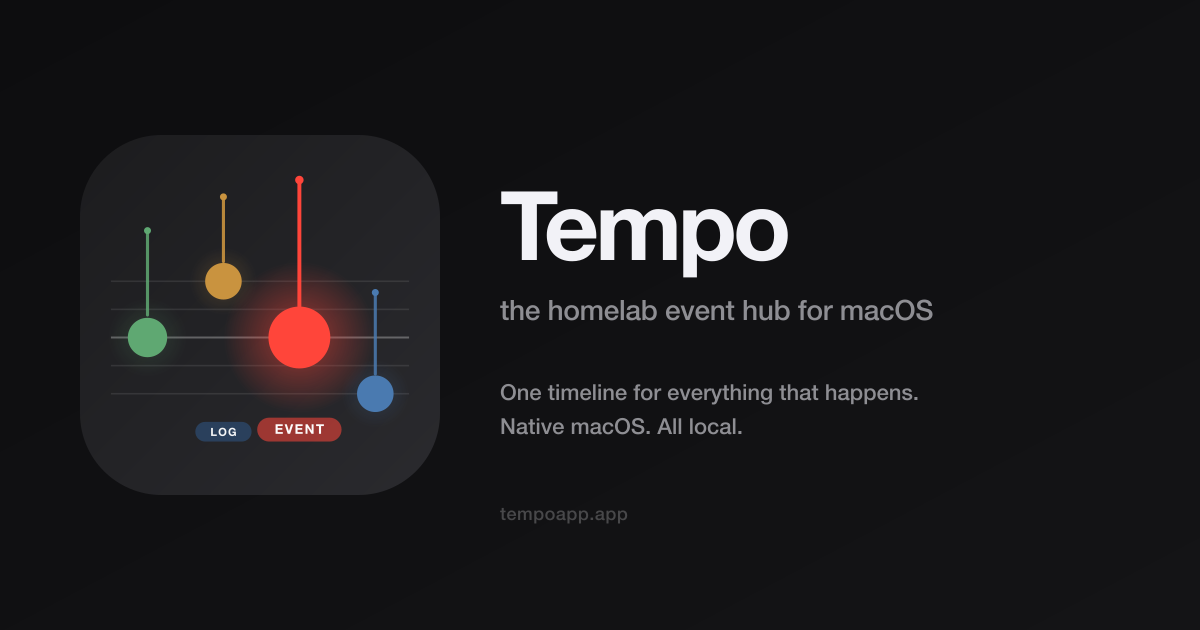
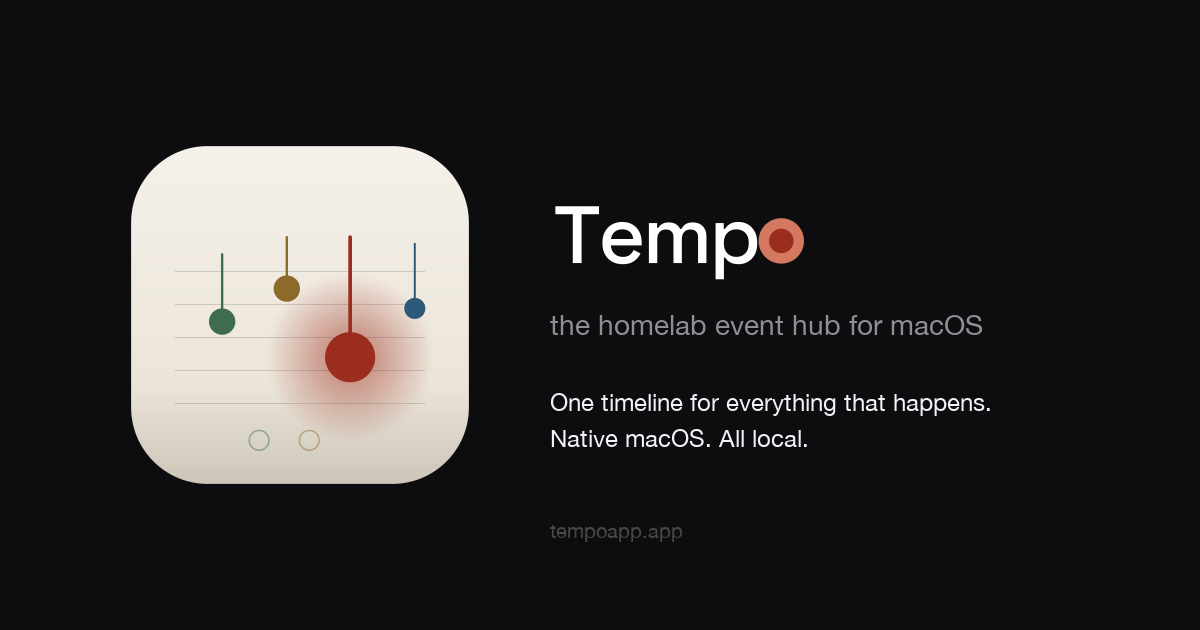
Update site to Cerveteri brand system
Align tempoapp.app with the new Cantabile Cerveteri palette and the
path-converted Space Grotesk Medium wordmark from the Tempo app repo.
Brings the site into a coherent visual identity with what the user
sees after installing the app.

- Hero dock icon: replace red-dominant prototype with Cantabile light
  variant (cream squircle, red-brick dominant). Light variant chosen
  over dark so the squircle stands off the #0d0d0f site background.
- Header nav: replace 'Tempo<span>.</span>' text + favicon img with
  inline wordmark SVG wrapped in a link to /. currentColor inherited
  from .nav-logo color, so glyph stays Cerveteri while text adapts.
- Hero wordmark: same inline SVG scaled to clamp(60px,10vw,100px).
  Replaces the bold 900 sans-serif text version.
- Favicon: glyph-only SVG (halo #D4795F + notehead #9B2D1E, no text).
  Replaces the old multi-color staff favicon. Also regenerates
  favicon-16.png, favicon-32.png and apple-touch-icon.png from the new
  glyph SVG.
- OG image: regenerate with same composition (dock left, wordmark +
  claim right) using the new Cantabile light dock + Space Grotesk
  wordmark. Tagline / claim copy unchanged.
- Remove orphan tempo-icon-text.svg (no longer referenced anywhere).

Footer text 'Tempo for macOS · ...' left untouched per design call:
the wordmark covers brand identity, the bold text reads as subject in
flowing copy. No CSS color tokens migrated — the site only uses
semantic severity vars (--blue/green/red/orange), no brand-warm
[…]

Changed region(s): [[0.0925, 0.2111, 0.8325, 0.7841], [0.4317, 0.8143, 0.555, 0.8746]]

diff --git a/public/index.html b/public/index.html
@@ -63,14 +63,10 @@ nav {
 .nav-logo {
   display: flex;
   align-items: center;
-  gap: 8px;
-  font-size: 17px;
-  font-weight: 700;
   color: var(--text);
-  letter-spacing: -.3px;
+  text-decoration: none;
 }
-.nav-logo span { color: var(--blue); }
-.nav-logo img { width: 26px; height: 26px; display: block; }
+.nav-logo .wordmark { height: 26px; width: auto; display: block; }
 .nav-badge {
   font-size: 11px;
   font-weight: 600;
@@ -105,12 +101,16 @@ nav {
 
 /* Wordmark — prominent product name */
 .hero-wordmark {
-  font-size: clamp(44px, 8vw, 72px);
-  font-weight: 900;
-  letter-spacing: -.05em;
   color: var(--text);
   margin-bottom: 4px;
   line-height: 1;
+  display: flex;
+  justify-content: center;
+}
+.hero-wordmark svg {
+  height: clamp(60px, 10vw, 100px);
+  width: auto;
+  display: block;
 }
 .hero-wordmark-sub {
   font-size: clamp(16px, 1.8vw, 19px);
@@ -506,7 +506,16 @@ footer {
 
 <!-- Nav -->
 <nav>
-  <div class="nav-logo"><img src="/icons/favicon.svg" alt="" aria-hidden="true">Tempo<span>.</span></div>
+  <a class="nav-logo" href="/" aria-label="Tempo home"><svg class="wordmark" viewBox="0 0 317 135.6" xmlns="http://www.w3.org/2000/svg" aria-hidden="true">
+    <g transform="translate(4, 102.4) scale(1,-1)" fill="currentColor">
+      <path d="M24 0V60.2H2.5V70H56.3V60.2H34.8V0Z"/>
+      <path d="M30.2 -1.4Q22.7 -1.4 17.1 1.75Q11.5 4.9 8.35 10.65Q5.2 16.4 5.2 24V25.2Q5.2 32.9 8.3 38.65Q11.4 44.4 16.95 47.55Q22.5 50.7 29.8 50.7Q36.9 50.7 42.25 47.55Q47.6 44.4 50.6 38.8Q53.6 33.2 53.6 25.7V21.8H15.7Q15.9 15.3 20.05 11.45Q24.2 7.6 30.4 7.6Q36.2 7.6 39.15 10.2Q42.1 12.8 43.7 16.2L52.2 11.8Q50.8 9 48.15 5.9Q45.5 2.8 41.2 0.7Q36.9 -1.4 30.2 -1.4ZM15.8 29.7H43.1Q42.7 35.3 39.1 38.45Q35.5 41.6 29.7 41.6Q23.9 41.6 20.25 38.45Q16.6 35.3 15.8 29.7Z" transform="translate(55.3, 0)"/>
+      <path d="M7.6 0V49.3H17.7V43.5H19.3Q20.7 46.1 23.8 48.1Q26.9 50.1 32.2 50.1Q37.7 50.1 41.05 47.85Q44.4 45.6 46.1 42.1H47.7Q49.4 45.5 52.65 47.8Q55.9 50.1 61.9 50.1Q66.7 50.1 70.4 48.15Q74.1 46.2 76.3 42.35Q78.5 38.5 78.5 32.8V0H68.2V32Q68.2 36.5 65.75 38.95Q63.3 41.4 58.8 41.4Q54 41.4 51.1 38.3Q48.2 35.2 48.2 29.4V0H37.9V32Q37.9 36.5 35.45 38.95Q33 41.4 28.5 41.4Q23.7 41.4 20.8 38.3Q17.9 35.2 17.9 29.4V0Z" transform="translate(110.2, 0)"/>
+      <path d="M7.6 -20V49.3H17.7V42.2H19.3Q21.2 45.5 25.05 48.1Q28.9 50.7 36.1 50.7Q42.3 50.7 47.45 47.7Q52.6 44.7 55.75 39.05Q58.9 33.4 58.9 25.4V23.9Q58.9 15.9 55.8 10.25Q52.7 4.6 47.5 1.6Q42.3 -1.4 36.1 -1.4Q31.3 -1.4 28 -0.2Q24.7 1 22.7 2.85Q20.7 4.7 19.5 6.7H17.9V-20ZM33.1 7.6Q39.9 7.6 44.2 11.9Q48.5 16.2 48.5 24.2V25.1Q48.5 33 44.15 37.3Q39.8 41.6 33.1 41.6Q26.5 41.6 22.15 37.3Q17.8 33 17.8 25.1V24.2Q17.8 16.2 22.15 11.9Q26.5 7.6 33.1 7.6Z" transform="translate(192.4, 0)"/>
+    </g>
+    <circle cx="285" cy="75.1" r="28" fill="#D4795F"/>
+    <circle cx="285" cy="75.1" r="15.12" fill="#9B2D1E"/>
+  </svg></a>
   <div class="nav-links">
     <a class="nav-link" href="#story">Story</a>
     <a class="nav-link" href="#faq">FAQ</a>
@@ -521,7 +530,16 @@ footer {
 <!-- Hero -->
 <section class="hero">
   <img src="/icons/tempo-icon-512.png" alt="Tempo app icon" class="hero-app-icon" width="512" height="512">
-  <div class="hero-wordmark">Tempo</div>
+  <div class="hero-wordmark"><svg viewBox="0 0 317 135.6" xmlns="http://www.w3.org/2000/svg" aria-label="Tempo">
+    <g transform="translate(4, 102.4) scale(1,-1)" fill="currentColor">
+      <path d="M24 0V60.2H2.5V70H56.3V60.2H34.8V0Z"/>
+      <path d="M30.2 -1.4Q22.7 -1.4 17.1 1.75Q11.5 4.9 8.35 10.65Q5.2 16.4 5.2 24V25.2Q5.2 32.9 8.3 38.65Q11.4 44.4 16.95 47.55Q22.5 50.7 29.8 50.7Q36.9 50.7 42.25 47.55Q47.6 44.4 50.6 38.8Q53.6 33.2 53.6 25.7V21.8H15.7Q15.9 15.3 20.05 11.45Q24.2 7.6 30.4 7.6Q36.2 7.6 39.15 10.2Q42.1 12.8 43.7 16.2L52.2 11.8Q50.8 9 48.15 5.9Q45.5 2.8 41.2 0.7Q36.9 -1.4 30.2 -1.4ZM15.8 29.7H43.1Q42.7 35.3 39.1 38.45Q35.5 41.6 29.7 41.6Q23.9 41.6 20.25 38.45Q16.6 35.3 15.8 29.7Z" transform="translate(55.3, 0)"/>
+      <path d="M7.6 0V49.3H17.7V43.5H19.3Q20.7 46.1 23.8 48.1Q26.9 50.1 32.2 50.1Q37.7 50.1 41.05 47.85Q44.4 45.6 46.1 42.1H47.7Q49.4 45.5 52.65 47.8Q55.9 50.1 61.9 50.1Q66.7 50.1 70.4 48.15Q74.1 46.2 76.3 42.35Q78.5 38.5 78.5 32.8V0H68.2V32Q68.2 36.5 65.75 38.95Q63.3 41.4 58.8 41.4Q54 41.4 51.1 38.3Q48.2 35.2 48.2 29.4V0H37.9V32Q37.9 36.5 35.45 38.95Q33 41.4 28.5 41.4Q23.7 41.4 20.8 38.3Q17.9 35.2 17.9 29.4V0Z" transform="translate(110.2, 0)"/>
+      <path d="M7.6 -20V49.3H17.7V42.2H19.3Q21.2 45.5 25.05 48.1Q28.9 50.7 36.1 50.7Q42.3 50.7 47.45 47.7Q52.6 44.7 55.75 39.05Q58.9 33.4 58.9 25.4V23.9Q58.9 15.9 55.8 10.25Q52.7 4.6 47.5 1.6Q42.3 -1.4 36.1 -1.4Q31.3 -1.4 28 -0.2Q24.7 1 22.7 2.85Q20.7 4.7 19.5 6.7H17.9V-20ZM33.1 7.6Q39.9 7.6 44.2 11.9Q48.5 16.2 48.5 24.2V25.1Q48.5 33 44.15 37.3Q39.8 41.6 33.1 41.6Q26.5 41.6 22.15 37.3Q17.8 33 17.8 25.1V24.2Q17.8 16.2 22.15 11.9Q26.5 7.6 33.1 7.6Z" transform="translate(192.4, 0)"/>
+    </g>
+    <circle cx="285" cy="75.1" r="28" fill="#D4795F"/>
+    <circle cx="285" cy="75.1" r="15.12" fill="#9B2D1E"/>
+  </svg></div>
   <div class="hero-wordmark-sub">the homelab event hub for macOS</div>
 
   <h1>One timeline for<br><em>everything that happens.</em></h1>
